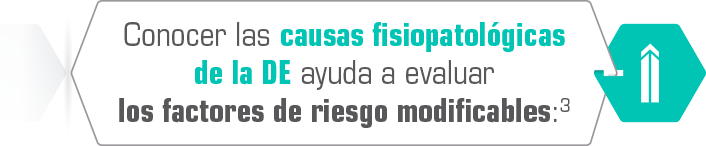
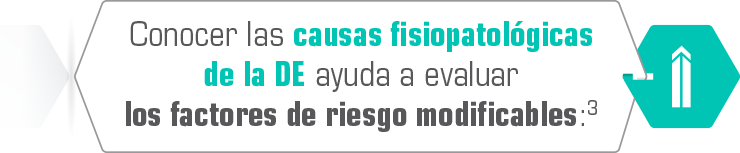
Cambios slide 1

diff --git a/slide_1.html b/slide_1.html
@@ -29,18 +29,18 @@
       </a>
     </div>
 
-    <div id="img2" class="animated fadeInDown"><img src="Slide1/Txt_1.png" style="height: 136px;width: 466.5px;"></div>
+    <div id="img2" class="animated fadeInDown"><img src="Slide1/Txt_1.png" style="height: 157px;width: 845.5px;"></div>
 
-    <div id="img3" class="animated fadeInUp"><img src="Slide1/Txt_2.png" style="height: 95.5px;width: 494px;"></div>
+    <div id="img3" class="animated fadeInUp"><img src="Slide1/Txt_2.png" style="height: 64.5px;width: 853px;"></div>
 
-    <div id="img4" class="animated fadeInLeft"><img src="Slide1/Txt_3.png" style="height: 73px;width: 353px;"></div>
+    <div id="img4" class="animated fadeInLeft"><img src="Slide1/Txt_3.png" style="height: 72.5px;width: 370px;"></div>
 
-    <div id="img5" class="animated fadeInRight"><img src="Slide1/Txt_4.png" style="height: 95.5pxpx;width: 334px;"></div>
+    <div id="img5" class="animated fadeInRight"><img src="Slide1/Txt_4.png" style="height: 95.5pxpx;width: 350.5px;"></div>
 
 
     <div id="linea" class="animated fadeIn"><img src="General/Linea_inf.png" style="height: 6.5px;width: 1024px;"></div>
 
-     <div id="logo" class="animated fadeInUp"><img src="General/LogoHelleva.png" style="height: 75.5px;width: 152.5px;"></div>
+     <div id="logo" class="animated fadeInUp"><img src="General/LogoHelleva.png" style="height: 100.5px;width: 152.5px;"></div>
   
 
   </div>  

diff --git a/css/delays.css b/css/delays.css
@@ -100,7 +100,7 @@
 	-o-animation-delay: 2.3s;
 	animation-delay: 2.3s;
 }
-#img1, #img12, #img15, #img27{
+#img4, #img12, #img15, #img27{
 	-webkit-animation-delay: 2.9s;
 	-o-animation-delay: 2.9s;
 	animation-delay: 2.9s;
@@ -110,15 +110,21 @@
 	-o-animation-delay: 3s;
 	animation-delay: 3s;
 }
-#img4, #img8, #img17, #img24, #img29{
+#img5, #img8, #img17, #img24, #img29{
 	webkit-animation-delay: 3.5s;
 	-o-animation-delay: 3.5s;
 	animation-delay: 3.5s;
 }
-#img5, #img7, #img16, #img23{
+#img7, #img16, #img23{
 	webkit-animation-delay: 4.1s;
 	-o-animation-delay: 4.1s;
 	animation-delay: 4.1s;
+}
+#img1{
+	webkit-animation-delay: 4.1s;
+	-o-animation-delay: 4.1s;
+	animation-delay: 4.1s;
+	animation-duration: 2s;
 }
 #img6, #img21, #img22{
 	webkit-animation-delay: 4.7s;

diff --git a/slide_6.html b/slide_6.html
@@ -46,7 +46,7 @@
   
 
   </div> 
-   
+
   <div class="overlay overlay-hugeinc">
     <button type="button" id="close" class="overlay-close">Close</button>
     
@@ -67,7 +67,7 @@
       <div id="opcion5"><a href="slide_6.html"><img src="Slide7/Boton_5.png" style="width:498.5px; height:50.5px"></a></div>
       
     </div><!--menu principal-->
-     <div id="logo" class="animated fadeInUp"><img src="General/LogoHelleva.png" style="height: 75.5px;width: 152.5px;"></div>
+     <div id="logo" class="animated fadeInUp"><img src="General/LogoHelleva.png" style="height: 75.5px;width: 252.5px;"></div>
 
     </div>
 

diff --git a/css/main.css b/css/main.css
@@ -54,7 +54,7 @@ body{
 }
 #logo{
 	position: absolute;
-    bottom: 25px;
+    bottom: 10px;
     right: 20px;
 }
 #linea{
@@ -74,27 +74,27 @@ body{
 }
 #img2{
 	position: absolute;
-    left: 276px;
+    left: 99px;
     top: 73px;
 }
 #img3{
 	position: absolute;
-    left: 269px;
-    top: 223px;
+    left: 103px;
+    top: 233px;
 }
 #img1{
 	position: absolute;
-    left: 352px;
+    left: 655px;
     top: 335px;
 }
 #img4{
 	position: absolute;
-    right: 689px;
+    right: 657px;
     top: 387px;
 }
 #img5{
 	position: absolute;
-    right: 0;
+    right: 359px;
     top: 489px;
 }
 #titulo{
